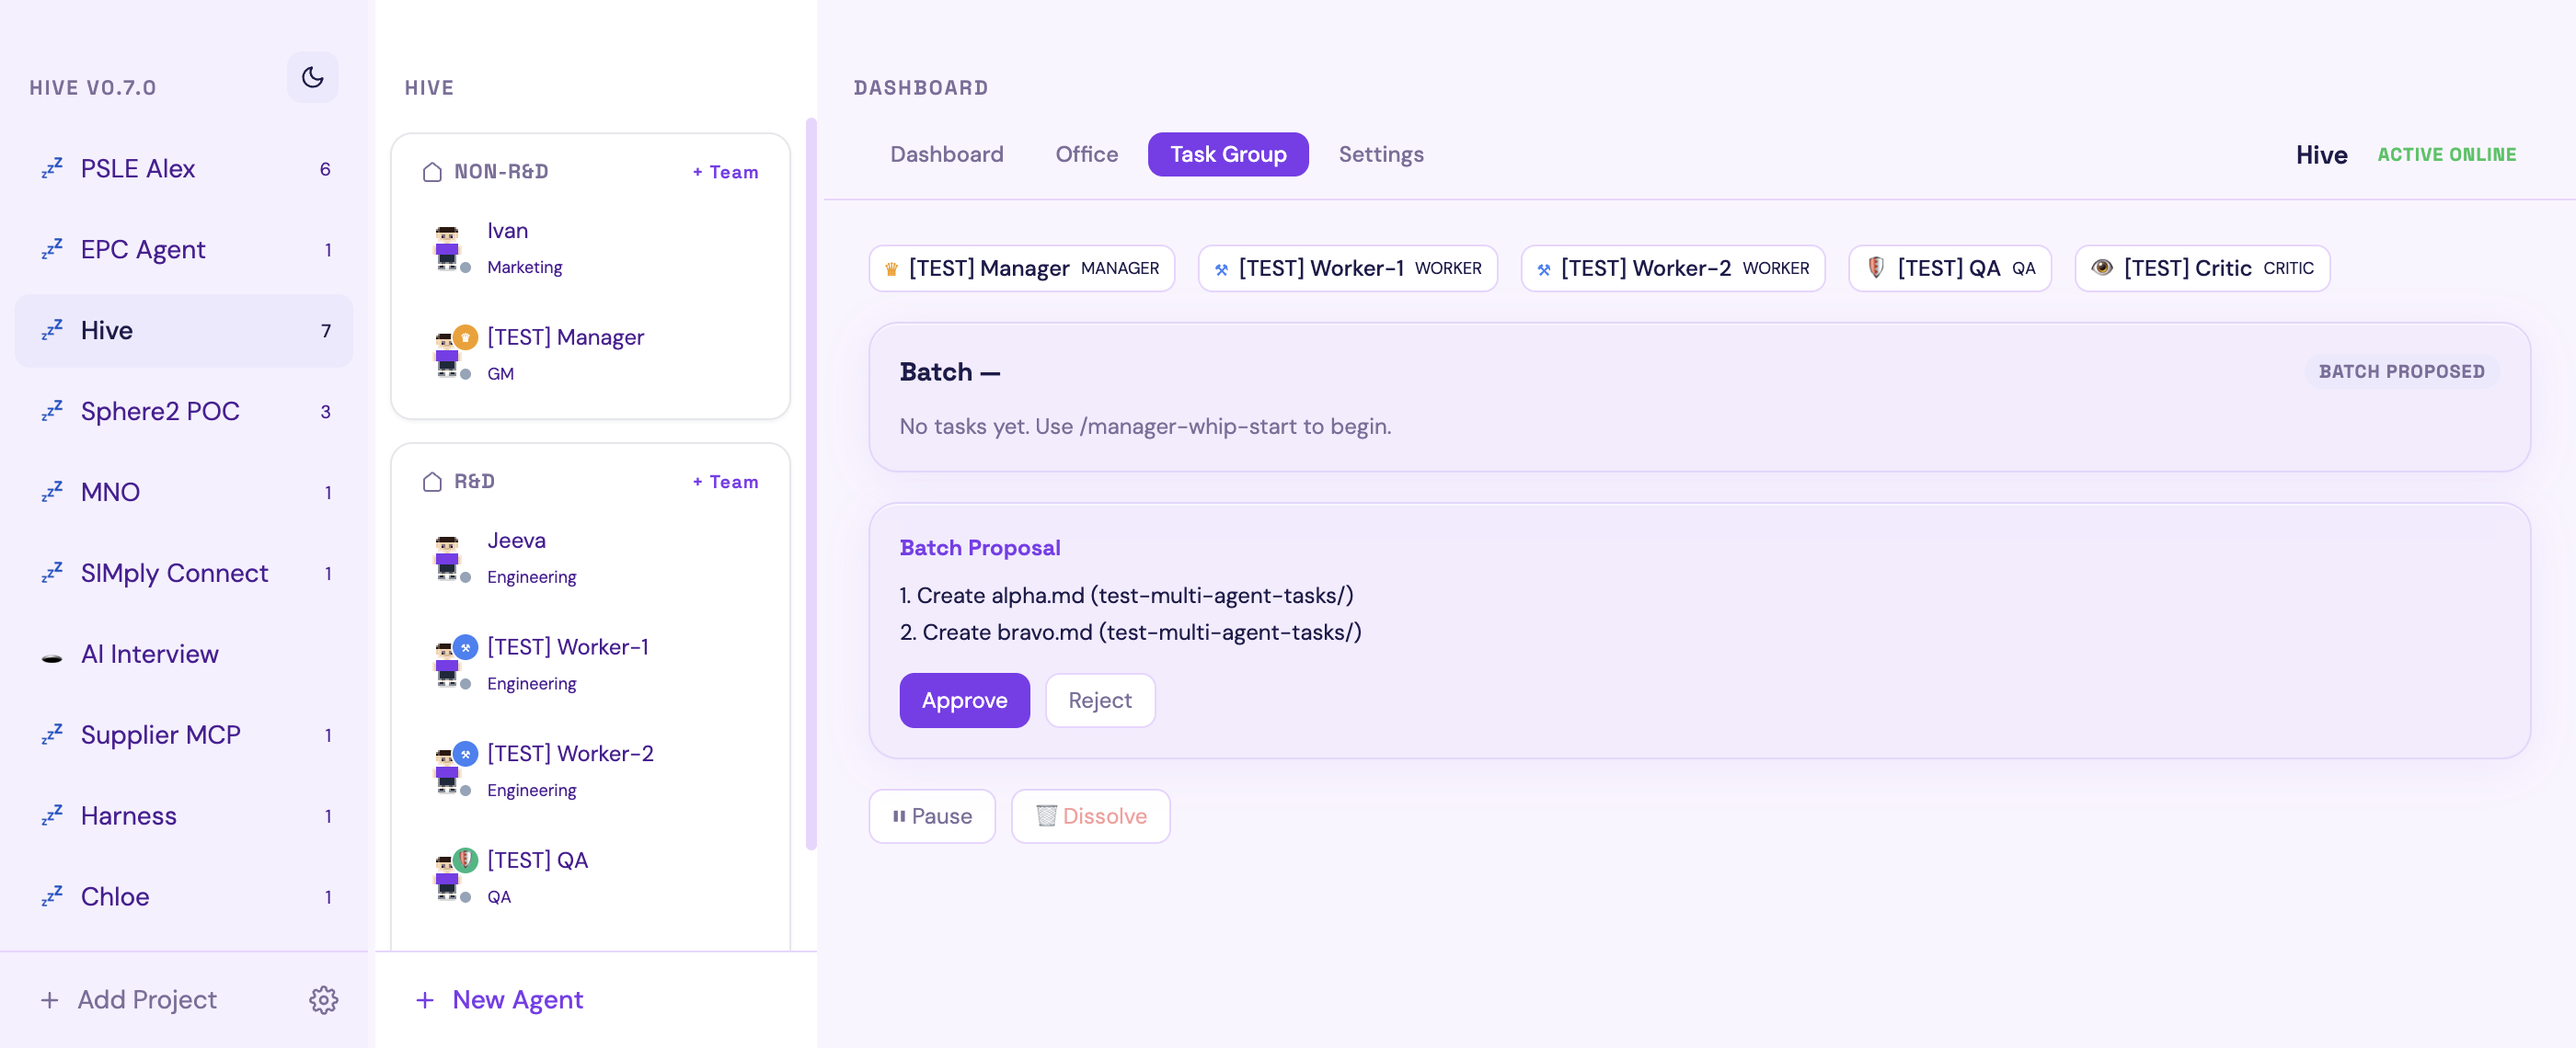
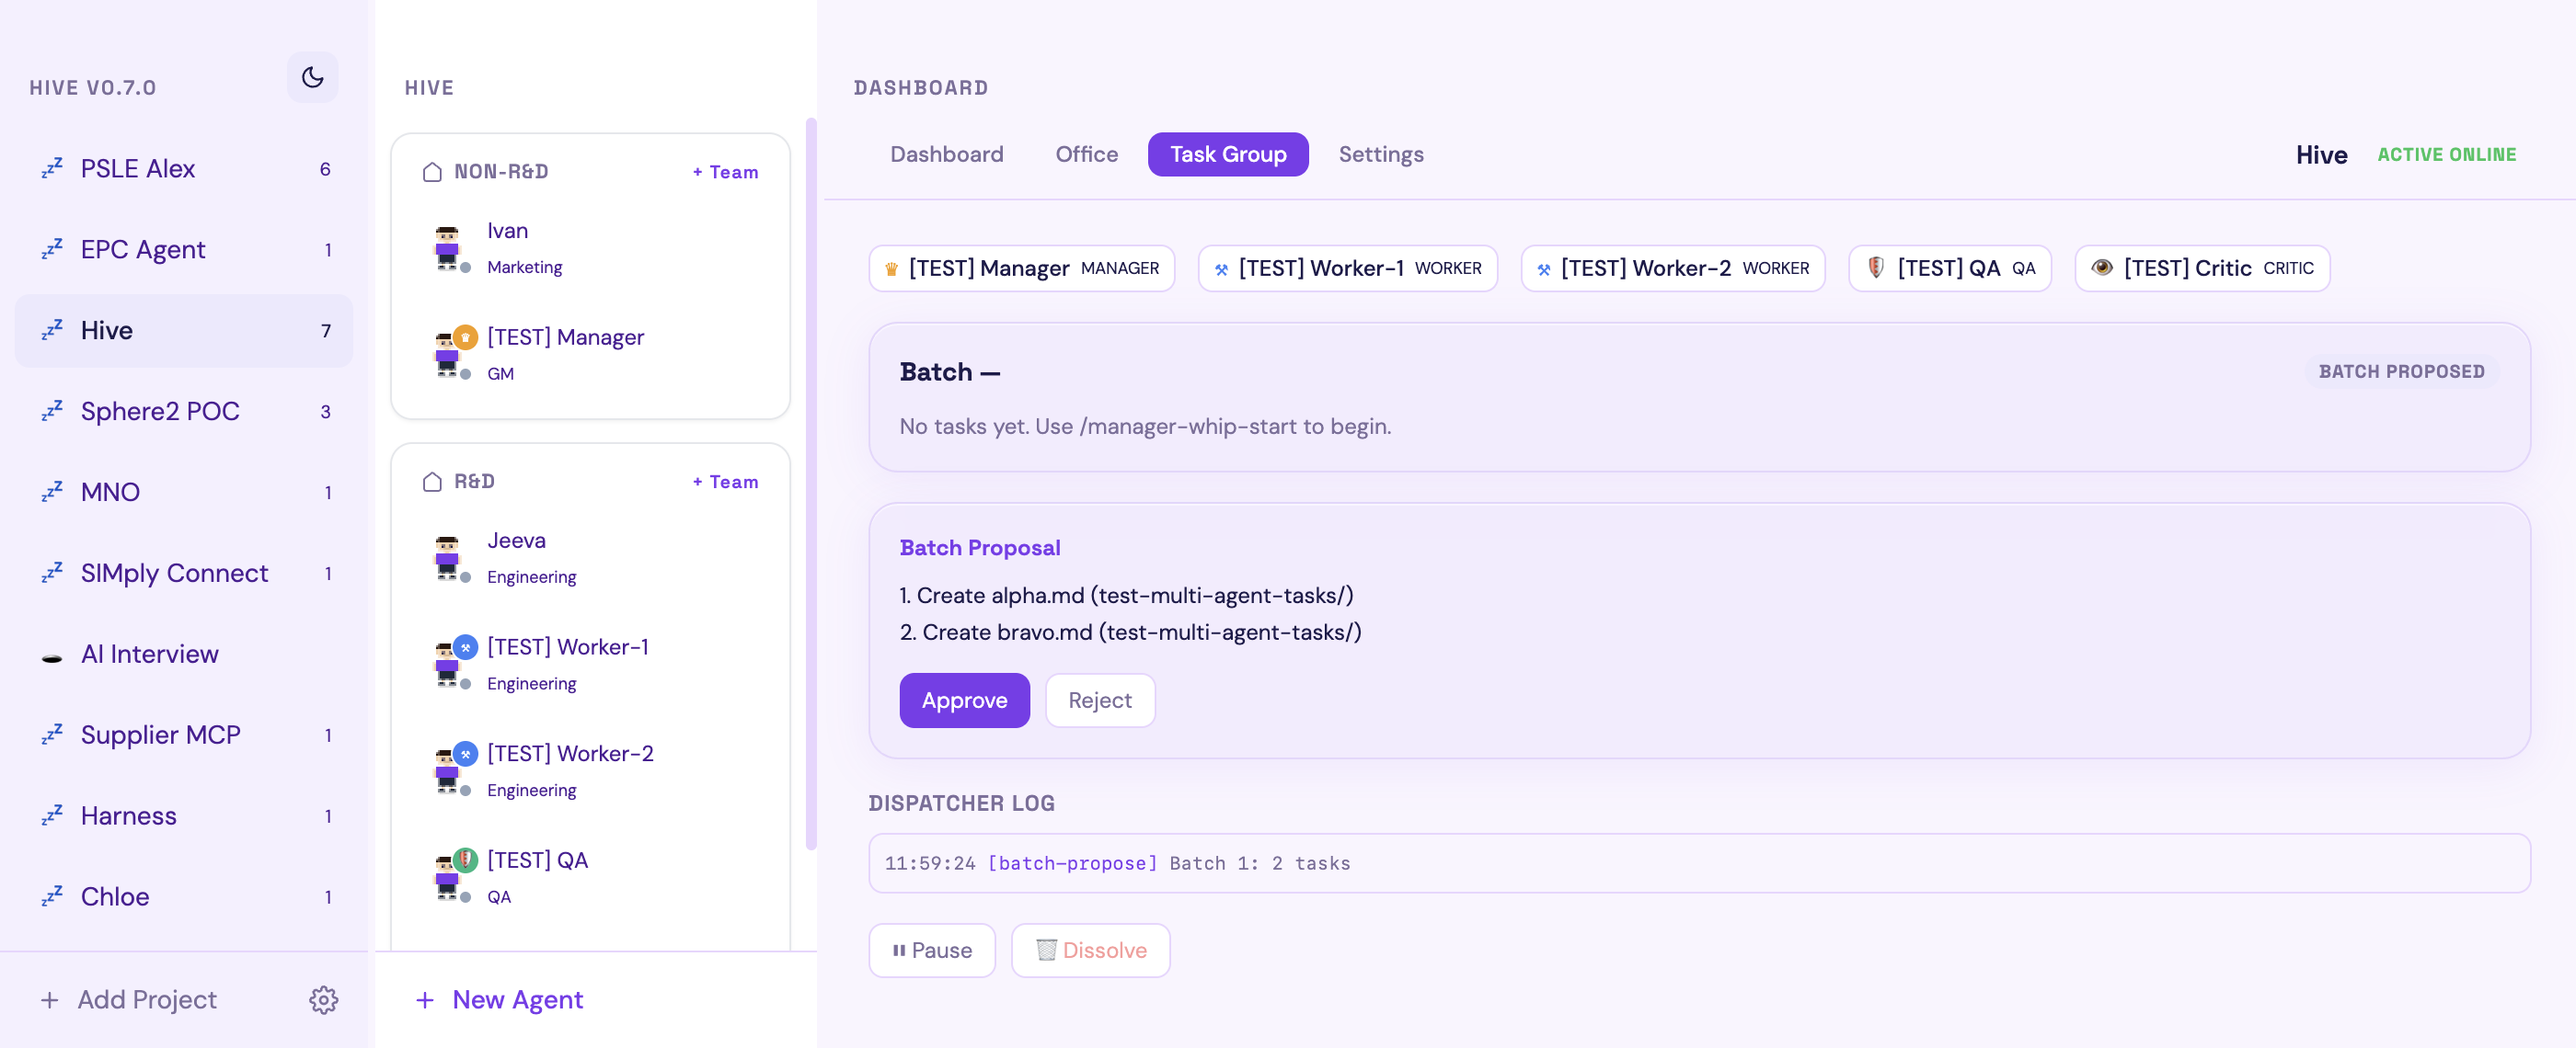
fix: tasks.ts uses DATA_DIR not app.getPath('home') + dispatcher log
ROOT CAUSE: endpoints used app.getPath('home') for task CRUD, ignoring
HIVE_DATA_DIR env. Test instance wrote/read tasks from real ~/.hive/
instead of isolated dir, mixing with real Hive app data.

Fix: tasks.ts renamed homeDir→dataDir. All endpoints pass DATA_DIR.
Also added dispatcher log (task-create, task-assign, gate, etc.)
visible in Task Group tab.

diff --git a/src/main/tasks.ts b/src/main/tasks.ts
@@ -16,26 +16,25 @@ export interface TaskData {
   blocked_reason: string | null
 }
 
-const COMMS_BASE = '.hive/comms'
-
-function tasksDir(homeDir: string, projectId: string): string {
-  return join(homeDir, COMMS_BASE, projectId, 'tasks')
+// dataDir = ~/.hive or /tmp/hive-test (set by HIVE_DATA_DIR env)
+function tasksDir(dataDir: string, projectId: string): string {
+  return join(dataDir, 'comms', projectId, 'tasks')
 }
 
-function reportsDir(homeDir: string, projectId: string): string {
-  return join(homeDir, COMMS_BASE, projectId, 'reports')
+function reportsDir(dataDir: string, projectId: string): string {
+  return join(dataDir, 'comms', projectId, 'reports')
 }
 
 function ensureDir(dir: string) {
   if (!existsSync(dir)) mkdirSync(dir, { recursive: true })
 }
 
-function taskFilePath(homeDir: string, projectId: string, taskId: string): string {
-  return join(tasksDir(homeDir, projectId), `${taskId}.json`)
+function taskFilePath(dataDir: string, projectId: string, taskId: string): string {
+  return join(tasksDir(dataDir, projectId), `${taskId}.json`)
 }
 
-function getNextId(homeDir: string, projectId: string): string {
-  const dir = tasksDir(homeDir, projectId)
+function getNextId(dataDir: string, projectId: string): string {
+  const dir = tasksDir(dataDir, projectId)
   ensureDir(dir)
   const files = readdirSync(dir).filter(f => f.match(/^task-\d+\.json$/))
   if (files.length === 0) return 'task-001'
@@ -44,31 +43,31 @@ function getNextId(homeDir: string, projectId: string): string {
   return `task-${String(next).padStart(3, '0')}`
 }
 
-export function createTask(homeDir: string, projectId: string, data: Omit<TaskData, 'id'>): TaskData {
-  const id = getNextId(homeDir, projectId)
+export function createTask(dataDir: string, projectId: string, data: Omit<TaskData, 'id'>): TaskData {
+  const id = getNextId(dataDir, projectId)
   const task: TaskData = { id, ...data }
-  const dir = tasksDir(homeDir, projectId)
+  const dir = tasksDir(dataDir, projectId)
   ensureDir(dir)
   writeFileSync(join(dir, `${id}.json`), JSON.stringify(task, null, 2))
   return task
 }
 
-export function readTask(homeDir: string, projectId: string, taskId: string): TaskData | null {
-  const fp = taskFilePath(homeDir, projectId, taskId)
+export function readTask(dataDir: string, projectId: string, taskId: string): TaskData | null {
+  const fp = taskFilePath(dataDir, projectId, taskId)
   if (!existsSync(fp)) return null
   return JSON.parse(readFileSync(fp, 'utf-8'))
 }
 
-export function updateTask(homeDir: string, projectId: string, taskId: string, updates: Partial<TaskData>): TaskData | null {
-  const task = readTask(homeDir, projectId, taskId)
+export function updateTask(dataDir: string, projectId: string, taskId: string, updates: Partial<TaskData>): TaskData | null {
+  const task = readTask(dataDir, projectId, taskId)
   if (!task) return null
   const updated = { ...task, ...updates, id: task.id } // never overwrite id
-  writeFileSync(taskFilePath(homeDir, projectId, taskId), JSON.stringify(updated, null, 2))
+  writeFileSync(taskFilePath(dataDir, projectId, taskId), JSON.stringify(updated, null, 2))
   return updated
 }
 
-export function listTasks(homeDir: string, projectId: string): TaskData[] {
-  const dir = tasksDir(homeDir, projectId)
+export function listTasks(dataDir: string, projectId: string): TaskData[] {
+  const dir = tasksDir(dataDir, projectId)
   ensureDir(dir)
   const files = readdirSync(dir).filter(f => f.endsWith('.json')).sort()
   return files.map(f => {
@@ -76,24 +75,24 @@ export function listTasks(homeDir: string, projectId: string): TaskData[] {
   }).filter(Boolean) as TaskData[]
 }
 
-export function deleteTask(homeDir: string, projectId: string, taskId: string): boolean {
-  const fp = taskFilePath(homeDir, projectId, taskId)
+export function deleteTask(dataDir: string, projectId: string, taskId: string): boolean {
+  const fp = taskFilePath(dataDir, projectId, taskId)
   if (!existsSync(fp)) return false
   unlinkSync(fp)
   return true
 }
 
-export function ensureReportsDir(homeDir: string, projectId: string): string {
-  const dir = reportsDir(homeDir, projectId)
+export function ensureReportsDir(dataDir: string, projectId: string): string {
+  const dir = reportsDir(dataDir, projectId)
   ensureDir(dir)
   return dir
 }
 
-export function watchTasks(homeDir: string, projectId: string, win: BrowserWindow | null): () => void {
-  const dir = tasksDir(homeDir, projectId)
+export function watchTasks(dataDir: string, projectId: string, win: BrowserWindow | null): () => void {
+  const dir = tasksDir(dataDir, projectId)
   ensureDir(dir)
   const watcher = watch(dir, () => {
-    const tasks = listTasks(homeDir, projectId)
+    const tasks = listTasks(dataDir, projectId)
     if (win && !win.isDestroyed()) {
       win.webContents.send('task:update', { projectId, tasks })
     }

diff --git a/src/main/index.ts b/src/main/index.ts
@@ -115,7 +115,7 @@ const statusServer = createServer((req, res) => {
     // GET /task-status?projectId=xxx
     const url = new URL(req.url, `http://127.0.0.1:${HIVE_PORT}`)
     const projectId = url.searchParams.get('projectId') || ''
-    const homeDir = app.getPath('home')
+    const homeDir = DATA_DIR
     const tasks = listTasks(homeDir, projectId)
     res.writeHead(200, { 'Content-Type': 'application/json' })
     res.end(JSON.stringify(tasks))
@@ -159,7 +159,7 @@ const statusServer = createServer((req, res) => {
         }
         if (win && !win.isDestroyed()) win.webContents.send('agent:report', data)
       } else if (req.url === '/task-create') {
-        const homeDir = app.getPath('home')
+        const homeDir = DATA_DIR
         const ctx = data.agentId ? findTaskGroupForAgent(data.agentId) : null
         const projectId = ctx?.projectId || data.projectId || ''
         const task = createTask(homeDir, projectId, {
@@ -173,7 +173,7 @@ const statusServer = createServer((req, res) => {
         res.end(JSON.stringify({ id: task.id }))
         return
       } else if (req.url === '/task-assign') {
-        const homeDir = app.getPath('home')
+        const homeDir = DATA_DIR
         const ctx = findTaskGroupForAgent(data.agentId)
         const projectId = data.projectId || ctx?.projectId || ''
         const task = updateTask(homeDir, projectId, data.taskId, { status: 'assigned', owner: data.agentId })
@@ -186,7 +186,7 @@ const statusServer = createServer((req, res) => {
           appendLog(data.agentId || 'unknown', { time: new Date().toISOString(), type: 'notification', message: `task-assign FAILED: taskId="${data.taskId}" not found in project ${projectId}` })
         }
       } else if (req.url === '/task-done') {
-        const homeDir = app.getPath('home')
+        const homeDir = DATA_DIR
         const ctx = findTaskGroupForAgent(data.agentId)
         const projectId = data.projectId || ctx?.projectId || ''
         const task = readTask(homeDir, projectId, data.taskId)
@@ -226,7 +226,7 @@ const statusServer = createServer((req, res) => {
           if (ctx?.taskGroup) sendToAgent(ctx.taskGroup.managerId, 'MSG', { task: data.taskId, status: 'done', summary: data.summary })
         }
       } else if (req.url === '/task-blocked') {
-        const homeDir = app.getPath('home')
+        const homeDir = DATA_DIR
         const ctx = findTaskGroupForAgent(data.agentId)
         const projectId = data.projectId || ctx?.projectId || ''
         updateTask(homeDir, projectId, data.taskId, {
@@ -237,7 +237,7 @@ const statusServer = createServer((req, res) => {
         if (ctx?.taskGroup) sendToAgent(ctx.taskGroup.managerId, 'MSG', { task: data.taskId, status: 'blocked', reason: data.reason })
         notifyHuman('Task Blocked', `${data.taskId}: ${data.reason}`)
       } else if (req.url === '/task-status') {
-        const homeDir = app.getPath('home')
+        const homeDir = DATA_DIR
         const ctx = findTaskGroupForAgent(data.agentId)
         const projectId = data.projectId || ctx?.projectId || ''
         const tasks = listTasks(homeDir, projectId)

diff --git a/test-multi-agent-report/summary.md b/test-multi-agent-report/summary.md
@@ -1,50 +1,50 @@
-17:00:38 # Integration Test (3 tasks)
+03:58:20 # Integration Test (3 tasks)
 
-17:00:38 Isolated data dir: /var/folders/pv/f5m189_n64ldtzhcz3z4m42m0000gn/T/hive-integration-test
-17:00:47 Baseline: 10 projects, 17 agents
-17:00:50 Created [TEST] Manager
-17:00:53 Created [TEST] Worker-1
-17:00:55 Created [TEST] Worker-2
-17:00:58 Created [TEST] QA
-17:01:00 Created [TEST] Critic
-17:01:03 Task group created
-17:01:06 Manager terminal opened
-17:01:10 Worker-1 terminal opened (before Manager instruction)
-17:01:14 Worker-2 terminal opened (before Manager instruction)
-17:01:15 Manager ID: agent-1775322050381
-17:01:30 Sent direct instruction to manager
-17:01:40 [10s] task-status: 4 tasks
-17:01:40 4 tasks exist — waiting for assign...
-17:01:40 ✅ 2/4 tasks assigned!
-17:01:41 Proposal found: true
-17:01:44 Worker-1 started
-17:01:47 Worker-2 started
-17:02:18 [30s] Workers: 0/4 done, 0 blocked
-17:02:50 [62s] Workers: 0/4 done, 0 blocked
-17:03:22 [93s] Workers: 0/4 done, 0 blocked
-17:03:54 [125s] Workers: 0/4 done, 0 blocked
-17:04:25 [157s] Workers: 0/4 done, 0 blocked
-17:04:57 [188s] Workers: 0/4 done, 0 blocked
-17:05:29 [220s] Workers: 0/4 done, 0 blocked
-17:06:00 [252s] Workers: 0/4 done, 0 blocked
-17:06:32 [283s] Workers: 0/4 done, 0 blocked
-17:07:04 [315s] Workers: 0/4 done, 0 blocked
-17:07:35 [347s] Workers: 0/4 done, 0 blocked
-17:08:07 [378s] Workers: 0/4 done, 0 blocked
-17:08:39 [410s] Workers: 0/4 done, 0 blocked
-17:09:10 [442s] Workers: 0/4 done, 0 blocked
-17:09:42 [474s] Workers: 0/4 done, 0 blocked
-17:10:14 [505s] Workers: 0/4 done, 0 blocked
-17:10:14 Workers complete: false
-17:10:17 QA started
-17:11:21 Critic started
-17:12:23 Test complete
-17:12:23 
+03:58:20 Isolated data dir: /var/folders/pv/f5m189_n64ldtzhcz3z4m42m0000gn/T/hive-integration-test
+03:58:28 Baseline: 10 projects, 17 agents
+03:58:32 Created [TEST] Manager
+03:58:35 Created [TEST] Worker-1
+03:58:37 Created [TEST] Worker-2
+03:58:39 Created [TEST] QA
+03:58:42 Created [TEST] Critic
+03:58:45 Task group created
+03:58:48 Manager terminal opened
+03:58:52 Worker-1 terminal opened (before Manager instruction)
+03:58:55 Worker-2 terminal opened (before Manager instruction)
+03:58:56 Manager ID: agent-1775361512061
+03:59:11 Sent direct instruction to manager
+03:59:22 [10s] task-status: 4 tasks
+03:59:22 4 tasks exist — waiting for assign...
+03:59:22 ✅ 2/4 tasks assigned!
+03:59:22 Proposal found: true
+03:59:25 Worker-1 started
+03:59:28 Worker-2 started
+04:00:01 [30s] Workers: 0/4 done, 0 blocked
+04:00:32 [62s] Workers: 0/4 done, 0 blocked
+04:01:04 [93s] Workers: 0/4 done, 0 blocked
+04:01:36 [125s] Workers: 0/4 done, 0 blocked
+04:02:07 [157s] Workers: 0/4 done, 0 blocked
+04:02:39 [188s] Workers: 0/4 done, 0 blocked
+04:03:11 [220s] Workers: 0/4 done, 0 blocked
+04:03:42 [252s] Workers: 0/4 done, 0 blocked
+04:04:14 [284s] Workers: 0/4 done, 0 blocked
+04:04:46 [315s] Workers: 0/4 done, 0 blocked
+04:05:17 [347s] Workers: 0/4 done, 0 blocked
+04:05:49 [379s] Workers: 0/4 done, 0 blocked
+04:06:21 [410s] Workers: 0/4 done, 0 blocked
+04:06:53 [442s] Workers: 0/4 done, 0 blocked
+04:07:24 [474s] Workers: 0/4 done, 0 blocked
+04:07:56 [505s] Workers: 0/4 done, 0 blocked
+04:07:56 Workers complete: false
+04:08:00 QA started
+04:09:03 Critic started
+04:10:05 Test complete
+04:10:05 
 --- TEARDOWN ---
-17:12:25 Dissolved task group
-17:12:26 Deleted: [TEST] Manager
-17:12:27 Deleted: [TEST] Worker-1
-17:12:28 Deleted: [TEST] Worker-2
-17:12:29 Deleted: [TEST] QA
-17:12:30 Deleted: [TEST] Critic
-17:12:30 Final: 10 projects, 17 agents
+04:10:07 Dissolved task group
+04:10:08 Deleted: [TEST] Manager
+04:10:09 Deleted: [TEST] Worker-1
+04:10:10 Deleted: [TEST] Worker-2
+04:10:11 Deleted: [TEST] QA
+04:10:12 Deleted: [TEST] Critic
+04:10:12 Final: 10 projects, 17 agents
